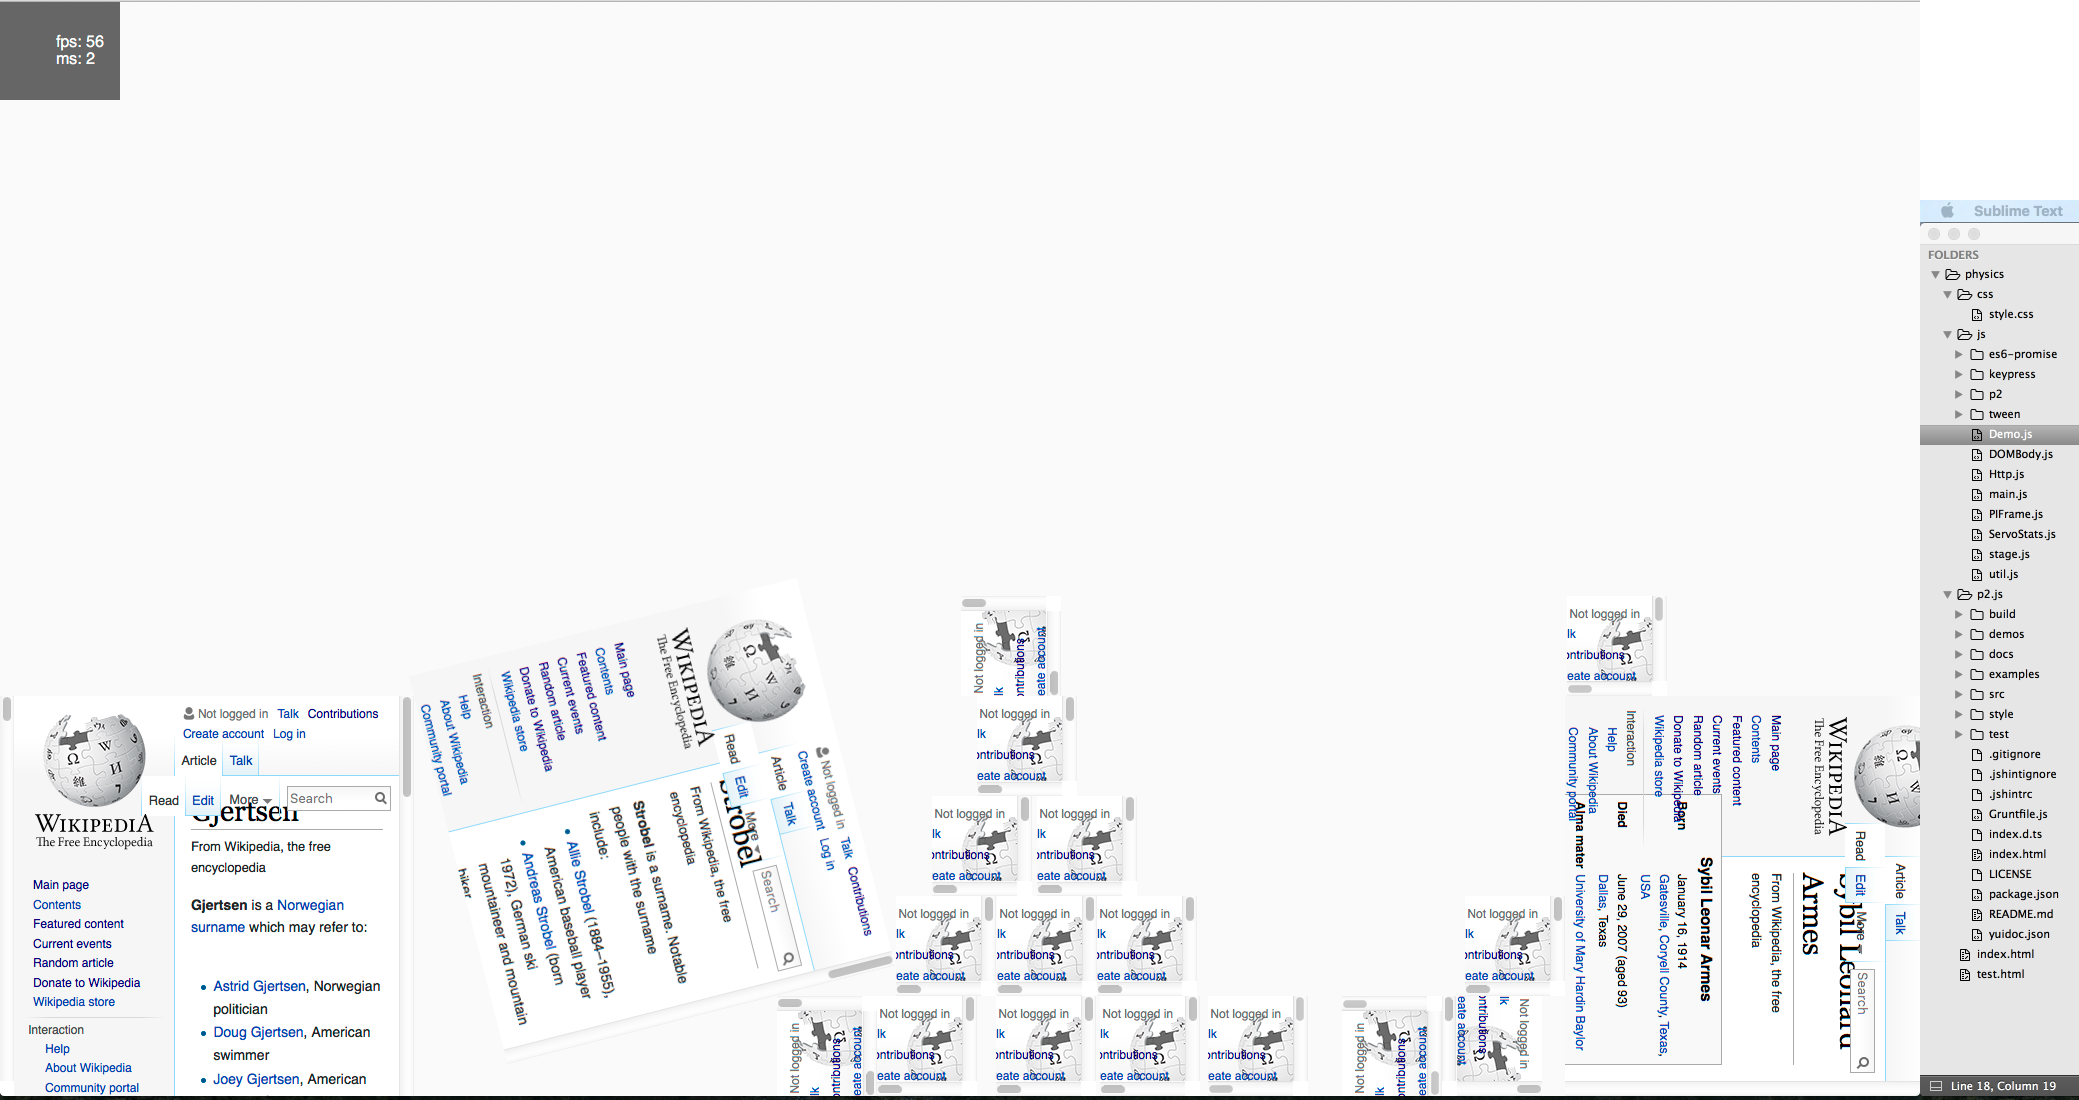
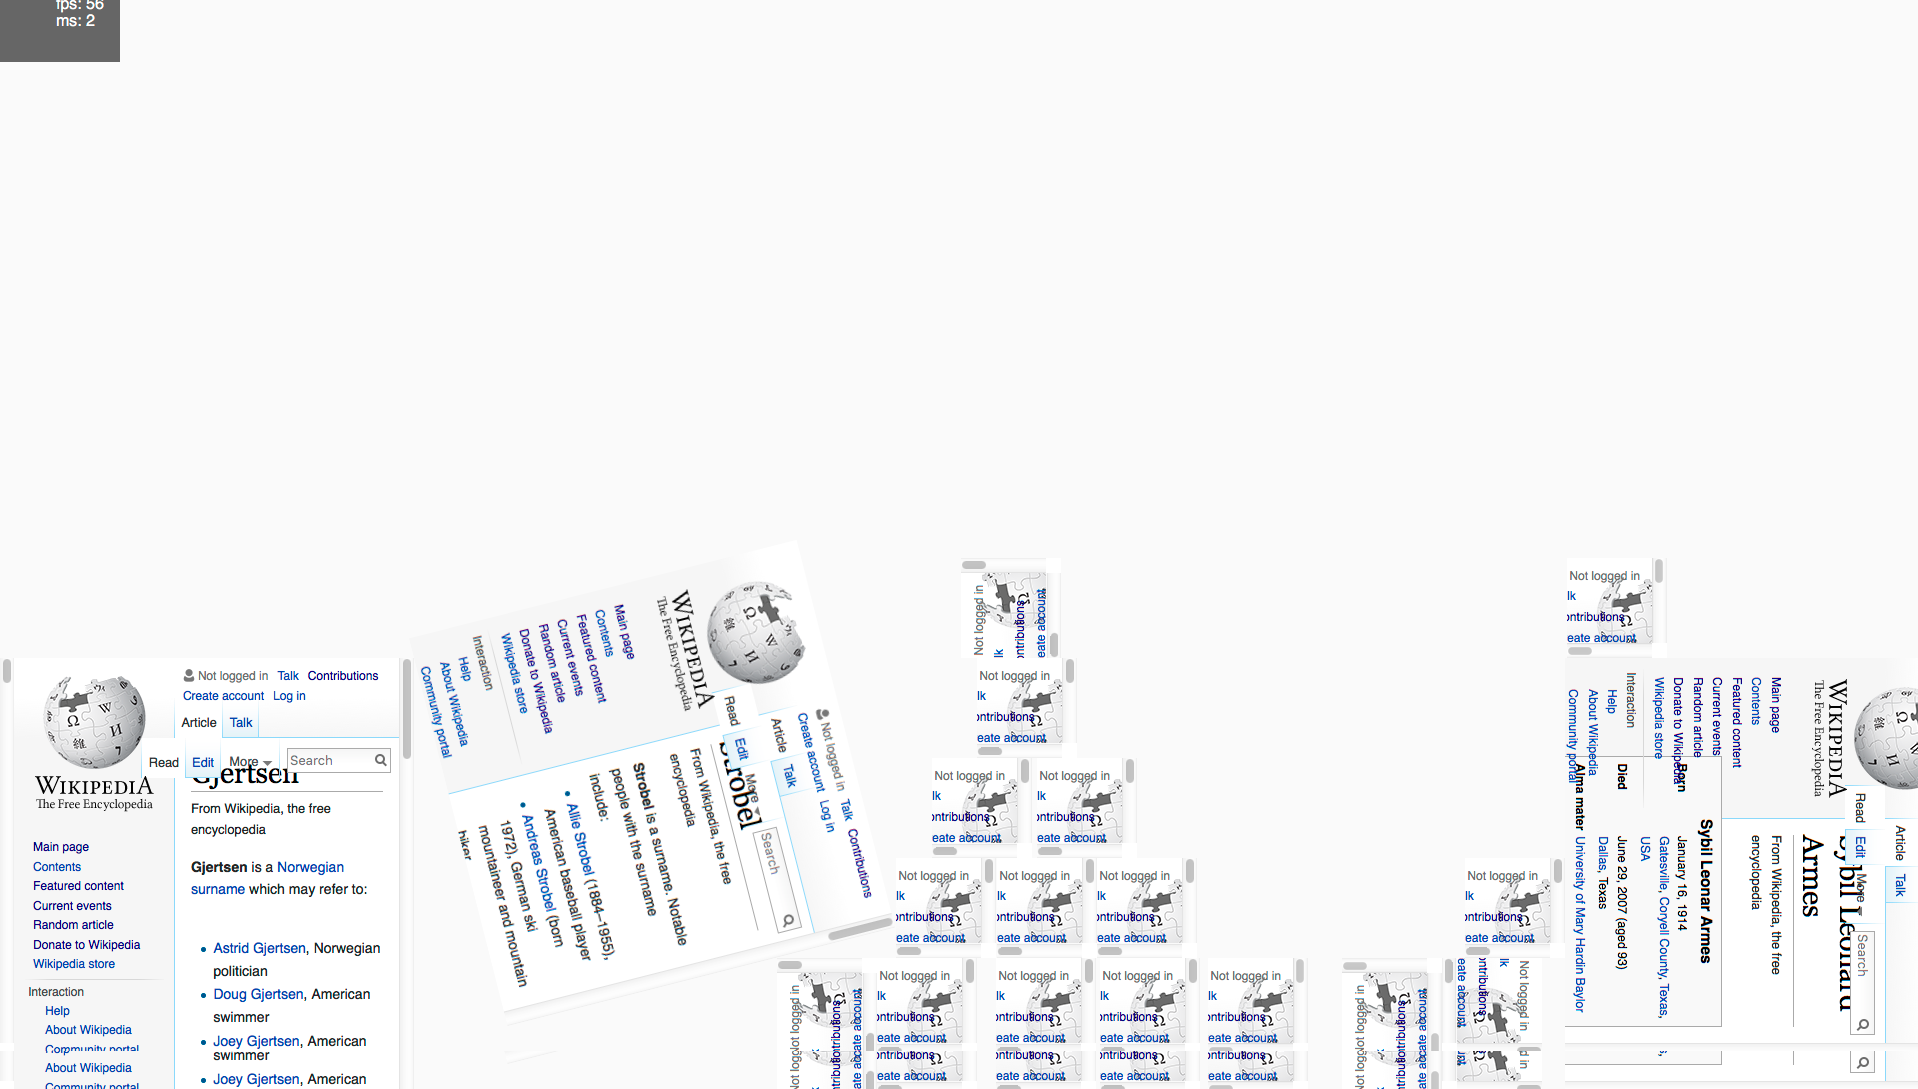
Crop pileup png

Changed region(s): [[0.0, 0.1561, 1.0, 1.0], [0.7383, 0.5308, 0.8613, 0.6244], [0.0, 0.0, 0.0615, 0.0937]]

diff --git a/physics/js/Demo.js b/physics/js/Demo.js
@@ -2,7 +2,7 @@ function Demo() {
     var el = document.createElement('div');
     var listener = new window.keypress.Listener();
 
-    PIFrame.ROT_ENABLED = false; // Use to enable/disable rotations when rendering
+    PIFrame.ROT_ENABLED = true; // Use to enable/disable rotations when rendering
 
     var world = new p2.World({gravity: [0, -200]});
     var stage = new Stage(el, world);

diff --git a/physics/js/DOMBody.js b/physics/js/DOMBody.js
@@ -4,6 +4,7 @@ function DOMBody(physicsEl, body) {
     this.body = body;
     this.pos = physicsEl.pos;
     this.rot = physicsEl.rot;
+    this.width = physicsEl.width;
     this.ready = physicsEl.ready; // Promise representing when this is ready to be added
     this.hide = physicsEl.hide;
     this.show = physicsEl.show;

diff --git a/physics/js/PIFrame.js b/physics/js/PIFrame.js
@@ -53,6 +53,10 @@
 
         this.rot = setRot;
 
+        this.width = function(w) {
+            el.style.width = w + 'px';
+        };
+
         this.hide = function() {
             el.className = 'PIFrame hidden';
         };
